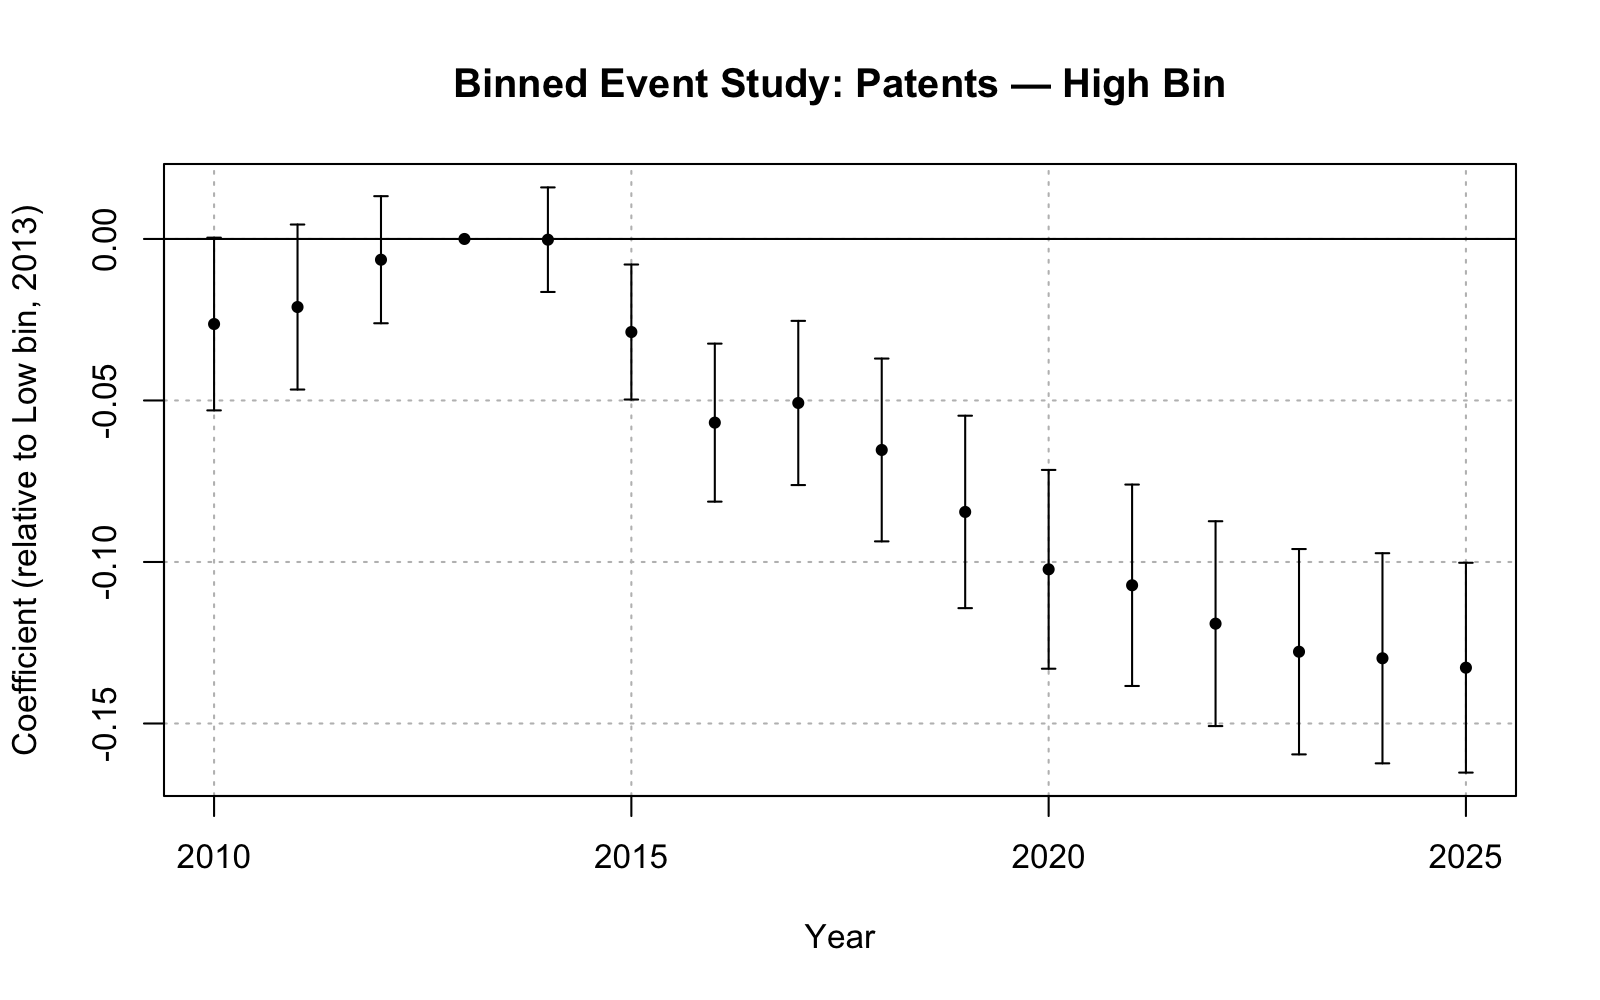
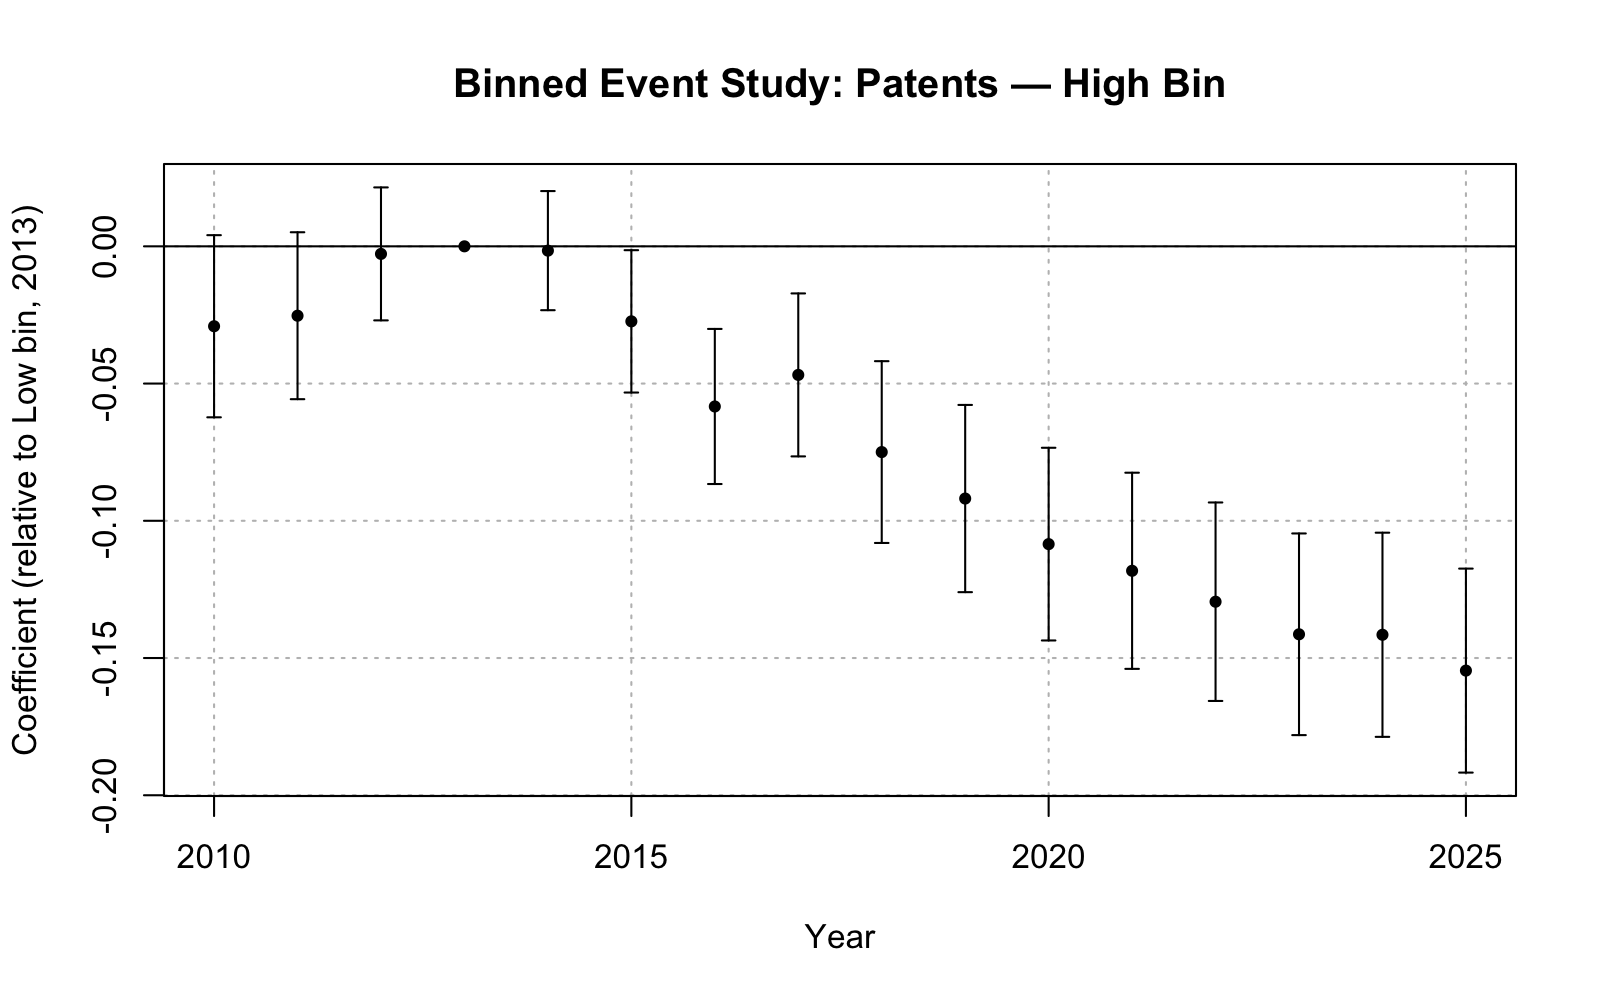
robustness output - patents withchanged medicaid bin

diff --git a/output/robustness/binned_treatment/binned_patent_models.tex b/output/robustness/binned_treatment/binned_patent_models.tex
@@ -12,66 +12,66 @@ hline{62}={1,2}{solid, black, 0.05em},
 }                     %% tabularray inner close
 \toprule
 & Patents: Binned \\ \midrule %% TinyTableHeader
-patent\_year = 2010 × bin\_medium & \num{0.004}     \\
-& (\num{0.004})   \\
-patent\_year = 2011 × bin\_medium & \num{0.006}     \\
-& (\num{0.004})   \\
-patent\_year = 2012 × bin\_medium & \num{0.006}*    \\
-& (\num{0.003})   \\
-patent\_year = 2014 × bin\_medium & \num{0.010}**   \\
-& (\num{0.003})   \\
-patent\_year = 2015 × bin\_medium & \num{-0.002}    \\
-& (\num{0.003})   \\
-patent\_year = 2016 × bin\_medium & \num{-0.004}    \\
-& (\num{0.004})   \\
-patent\_year = 2017 × bin\_medium & \num{-0.010}*   \\
-& (\num{0.004})   \\
-patent\_year = 2018 × bin\_medium & \num{-0.012}**  \\
-& (\num{0.004})   \\
-patent\_year = 2019 × bin\_medium & \num{-0.014}**  \\
+patent\_year = 2010 × bin\_medium & \num{-0.008}    \\
+& (\num{0.006})   \\
+patent\_year = 2011 × bin\_medium & \num{-0.005}    \\
+& (\num{0.006})   \\
+patent\_year = 2012 × bin\_medium & \num{0.009}     \\
+& (\num{0.006})   \\
+patent\_year = 2014 × bin\_medium & \num{0.015}**   \\
 & (\num{0.005})   \\
-patent\_year = 2020 × bin\_medium & \num{-0.019}*** \\
+patent\_year = 2015 × bin\_medium & \num{0.002}     \\
 & (\num{0.005})   \\
-patent\_year = 2021 × bin\_medium & \num{-0.015}**  \\
-& (\num{0.005})   \\
-patent\_year = 2022 × bin\_medium & \num{-0.015}*** \\
-& (\num{0.004})   \\
-patent\_year = 2023 × bin\_medium & \num{-0.014}**  \\
-& (\num{0.004})   \\
-patent\_year = 2024 × bin\_medium & \num{-0.012}*   \\
-& (\num{0.005})   \\
-patent\_year = 2025 × bin\_medium & \num{-0.004}    \\
-& (\num{0.004})   \\
-patent\_year = 2010 × bin\_high   & \num{-0.026}    \\
-& (\num{0.014})   \\
-patent\_year = 2011 × bin\_high   & \num{-0.021}    \\
-& (\num{0.013})   \\
-patent\_year = 2012 × bin\_high   & \num{-0.006}    \\
+patent\_year = 2016 × bin\_medium & \num{0.007}     \\
+& (\num{0.006})   \\
+patent\_year = 2017 × bin\_medium & \num{0.005}     \\
+& (\num{0.006})   \\
+patent\_year = 2018 × bin\_medium & \num{-0.009}    \\
+& (\num{0.006})   \\
+patent\_year = 2019 × bin\_medium & \num{-0.004}    \\
+& (\num{0.007})   \\
+patent\_year = 2020 × bin\_medium & \num{-0.003}    \\
+& (\num{0.006})   \\
+patent\_year = 2021 × bin\_medium & \num{-0.005}    \\
+& (\num{0.006})   \\
+patent\_year = 2022 × bin\_medium & \num{-0.010}    \\
+& (\num{0.006})   \\
+patent\_year = 2023 × bin\_medium & \num{-0.011}    \\
+& (\num{0.006})   \\
+patent\_year = 2024 × bin\_medium & \num{-0.005}    \\
 & (\num{0.010})   \\
-patent\_year = 2014 × bin\_high   & \num{0.000}     \\
-& (\num{0.008})   \\
-patent\_year = 2015 × bin\_high   & \num{-0.029}**  \\
-& (\num{0.011})   \\
-patent\_year = 2016 × bin\_high   & \num{-0.057}*** \\
+patent\_year = 2025 × bin\_medium & \num{-0.020}**  \\
+& (\num{0.006})   \\
+patent\_year = 2010 × bin\_high   & \num{-0.029}    \\
+& (\num{0.017})   \\
+patent\_year = 2011 × bin\_high   & \num{-0.025}    \\
+& (\num{0.016})   \\
+patent\_year = 2012 × bin\_high   & \num{-0.003}    \\
 & (\num{0.012})   \\
-patent\_year = 2017 × bin\_high   & \num{-0.051}*** \\
+patent\_year = 2014 × bin\_high   & \num{-0.002}    \\
+& (\num{0.011})   \\
+patent\_year = 2015 × bin\_high   & \num{-0.027}*   \\
 & (\num{0.013})   \\
-patent\_year = 2018 × bin\_high   & \num{-0.065}*** \\
+patent\_year = 2016 × bin\_high   & \num{-0.058}*** \\
 & (\num{0.014})   \\
-patent\_year = 2019 × bin\_high   & \num{-0.085}*** \\
+patent\_year = 2017 × bin\_high   & \num{-0.047}**  \\
 & (\num{0.015})   \\
-patent\_year = 2020 × bin\_high   & \num{-0.102}*** \\
-& (\num{0.016})   \\
-patent\_year = 2021 × bin\_high   & \num{-0.107}*** \\
-& (\num{0.016})   \\
-patent\_year = 2022 × bin\_high   & \num{-0.119}*** \\
-& (\num{0.016})   \\
-patent\_year = 2023 × bin\_high   & \num{-0.128}*** \\
-& (\num{0.016})   \\
-patent\_year = 2024 × bin\_high   & \num{-0.130}*** \\
+patent\_year = 2018 × bin\_high   & \num{-0.075}*** \\
 & (\num{0.017})   \\
-patent\_year = 2025 × bin\_high   & \num{-0.133}*** \\
+patent\_year = 2019 × bin\_high   & \num{-0.092}*** \\
 & (\num{0.017})   \\
+patent\_year = 2020 × bin\_high   & \num{-0.108}*** \\
+& (\num{0.018})   \\
+patent\_year = 2021 × bin\_high   & \num{-0.118}*** \\
+& (\num{0.018})   \\
+patent\_year = 2022 × bin\_high   & \num{-0.129}*** \\
+& (\num{0.018})   \\
+patent\_year = 2023 × bin\_high   & \num{-0.141}*** \\
+& (\num{0.019})   \\
+patent\_year = 2024 × bin\_high   & \num{-0.142}*** \\
+& (\num{0.019})   \\
+patent\_year = 2025 × bin\_high   & \num{-0.155}*** \\
+& (\num{0.019})   \\
 Num. obs.                           & \num{5281696}   \\
 R2                                  & \num{0.534}     \\
 \bottomrule
